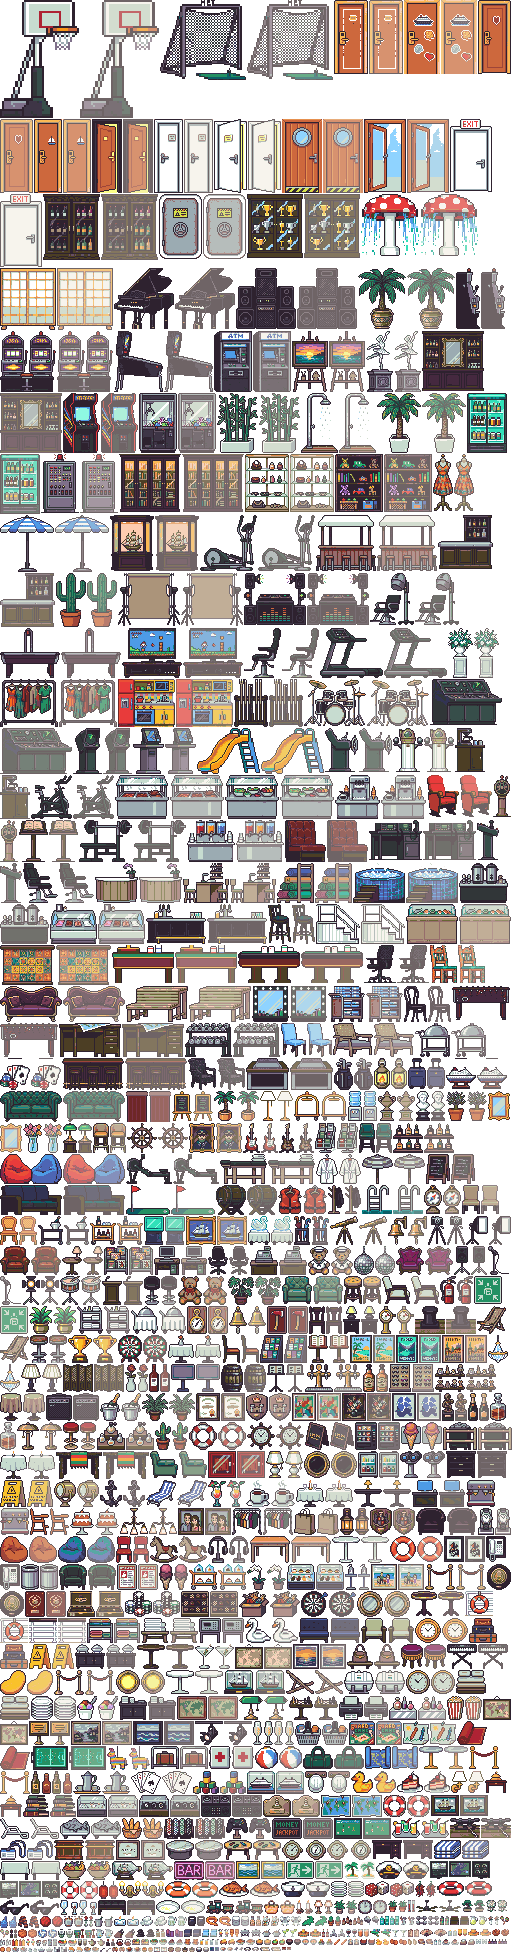
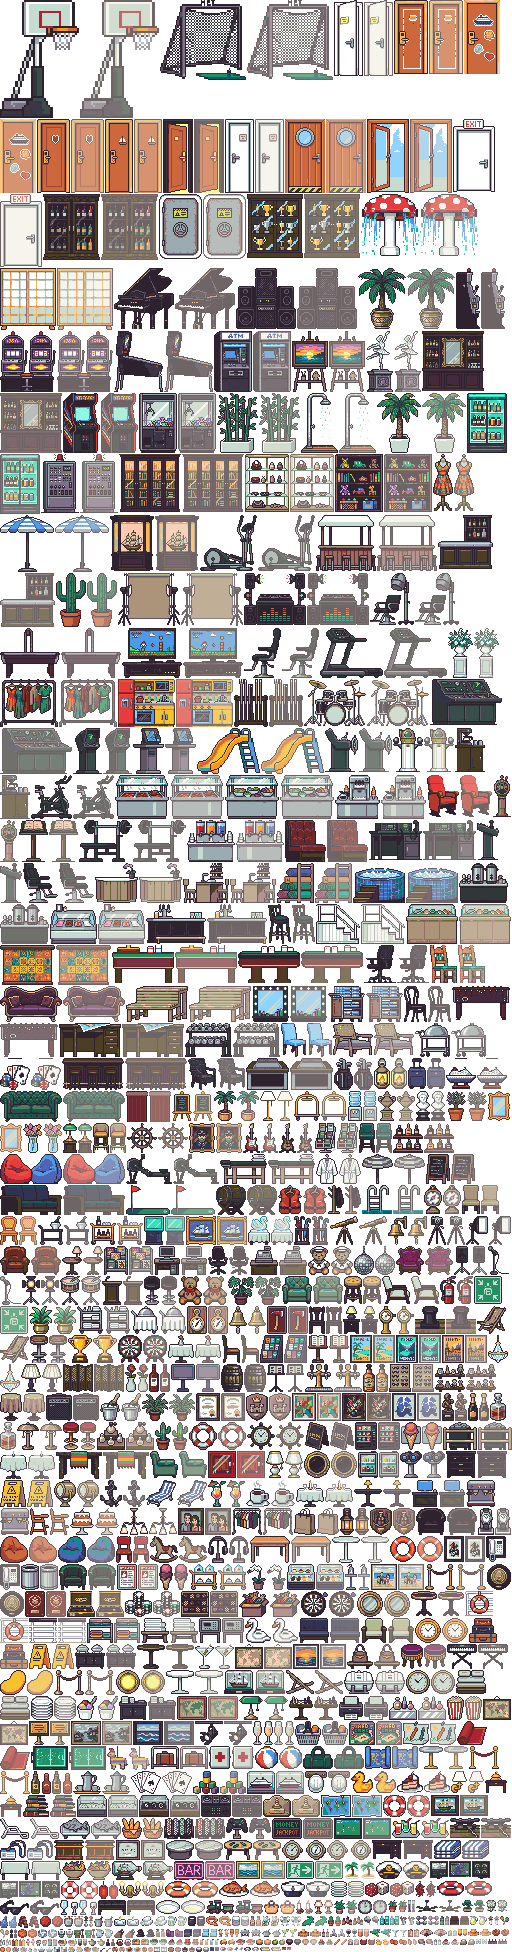
The open crew door's frame levelled with the closed one's
The open door's frame came 69 px high, 3 px off the floor and 33 px wide, where
the closed door's is 74 px, on the floor, 29 px wide: it showed as her cabin
door opened. tools/build_ship_art.py now makes the open one's frame the same
(level_frame); the swung leaf's corner still rises 2 px over it. Every lit
checkpoint's door on board is this piece.

No tests run, at the user's word; the two were compared laid over each other.

Changed region(s): [[0.0, 0.0, 1.0, 0.125]]

diff --git a/tools/build_ship_art.py b/tools/build_ship_art.py
@@ -68,6 +68,7 @@ MUTE = 0.35
 # (box-resampled, then snapped back to the palette), when the sheet drew it too big for her;
 # "from_x", drop the frame's columns left of this (a neighbour's end drawn into it); "join", the
 # columns (from, to) of the next frame to add on the right, where the sheet drew one piece across two.
+# "level", for an open door drawn with its leaf swung toward us (see `level_frame`).
 DOOR = (28, 74)                        # sized to her, like every door on board (§5.4)
 LEVER = 36                             # about half the door's height, as on a real door
 PIECES = {
@@ -77,7 +78,8 @@ PIECES = {
     "door-cabin-stickers-3": ("doors-1", 14, DOOR, {"fill": True, "lever": 36}),
     "door-cabin-ajar": ("doors-1", 5, DOOR, {}),
     "door-crew": ("doors-1", 6, DOOR, {"lever": 37}),
-    "door-crew-ajar": ("doors-1", 7, DOOR, {}),
+    # (Its frame came lower and wider than the closed door's, and 3 px off the floor: `level`.)
+    "door-crew-ajar": ("doors-1", 7, DOOR, {"level": {"frame": (2, 70), "cut": (6, 7, 8, 9), "more": (9, 27, 31, 50, 58)}}),
     "door-crew-exit": ("doors-1", 13, None, {}),
     "door-deck": ("doors-1", 8, DOOR, {"lever": 35}),
     "door-deck-open": ("doors-1", 15, DOOR, {}),
@@ -415,6 +417,32 @@ def muted(img):
     return out
 
 
+def level_frame(img, frame, cut, more):
+    """An open door's frame made the closed door's equal (the user, 2026-11-14: "A closed door
+    frame is leveled correctly with the floor. An open door's frame is not on the same level. Make
+    both frames equal. Both in height and in ground level"). The sheet drew the open door's leaf
+    swung toward us, so its free edge hangs over the frame's top and under its foot, and the
+    whole was fitted to a door's height: the frame itself came 69 px high where the closed one is
+    74, 3 px off the floor, and 33 px wide where the closed one is 29. Here the frame is made
+    74 x 29: `more`, plain rows drawn twice; `cut`, plain columns of the leaf taken out; what hangs
+    under the frame's foot (rows after `frame`'s second) is left off, the leaf's foot drawn level
+    with the floor instead. The leaf's corner over the frame's top stays (2 px), so the piece is
+    76 px high, and its frame is where the closed door's is when both stand on the same spot."""
+    top, foot = frame
+    assert img.size == (33, 74), img.size
+    cols = [x for x in range(img.width) if x not in cut]
+    rows = [y for y in range(foot + 1) for _ in range(2 if y in more else 1)]
+    out = Image.new("RGBA", (len(cols), len(rows)), (0, 0, 0, 0))
+    for j, y in enumerate(rows):
+        for i, x in enumerate(cols):
+            out.putpixel((i, j), img.getpixel((x, y)))
+    for x in range(out.width):                      # the foot: one dark line, frame and leaf
+        if out.getpixel((x, out.height - 1))[3]:
+            out.putpixel((x, out.height - 1), (0x2E, 0x22, 0x2F, 255))
+    assert out.size == (DOOR[0] + 1, DOOR[1] + top), out.size
+    return out
+
+
 def build():
     pieces = {}
     for name, spec in PIECES.items():
@@ -431,6 +459,8 @@ def build():
         if opts.get("height"):
             img = shrink(img, opts["height"])
         img = palettize(img)
+        if opts.get("level"):
+            img = level_frame(img, **opts["level"])
         pieces[name] = img
         pieces[f"{name}-bg"] = muted(img)
 

diff --git a/docs/progress-decisions.md b/docs/progress-decisions.md
@@ -1547,3 +1547,15 @@ sun stands in the world. In the wide views nothing far off drifts now: the islan
 hold (the sky is laid out with no time passing while the view is from afar), the intro's own
 clouds stand, the water only sways a little in place. The gulls and the glitter are what moves.
 Checked: `intro`, `boot`.
+
+**The open crew door levelled with the closed one** (the user, on watching her door open: "A
+closed door frame is leveled correctly with the floor. An open door's frame is not on the same
+level. Make both frames equal. Both in height and in ground level"). The sheet drew the open door
+with its leaf swung toward us, hanging over the frame's top and under its foot, and the whole was
+fitted to a door's 74 px: its frame came 69 px high, 3 px off the floor, and 33 px wide against
+the closed door's 29. `level_frame()` in `tools/build_ship_art.py` makes the frame 74 x 29 (five
+plain rows drawn twice, four plain columns of the leaf taken out), leaves off what hung under the
+foot and draws the leaf's foot level with the floor; the leaf's corner still rises 2 px over the
+frame. It is the door of every lit checkpoint on board, so all of them changed. No tests were
+run, at the user's word ("this is just a leveling"); the two doors were laid over each other at
+the game's placing and their frames coincide.
